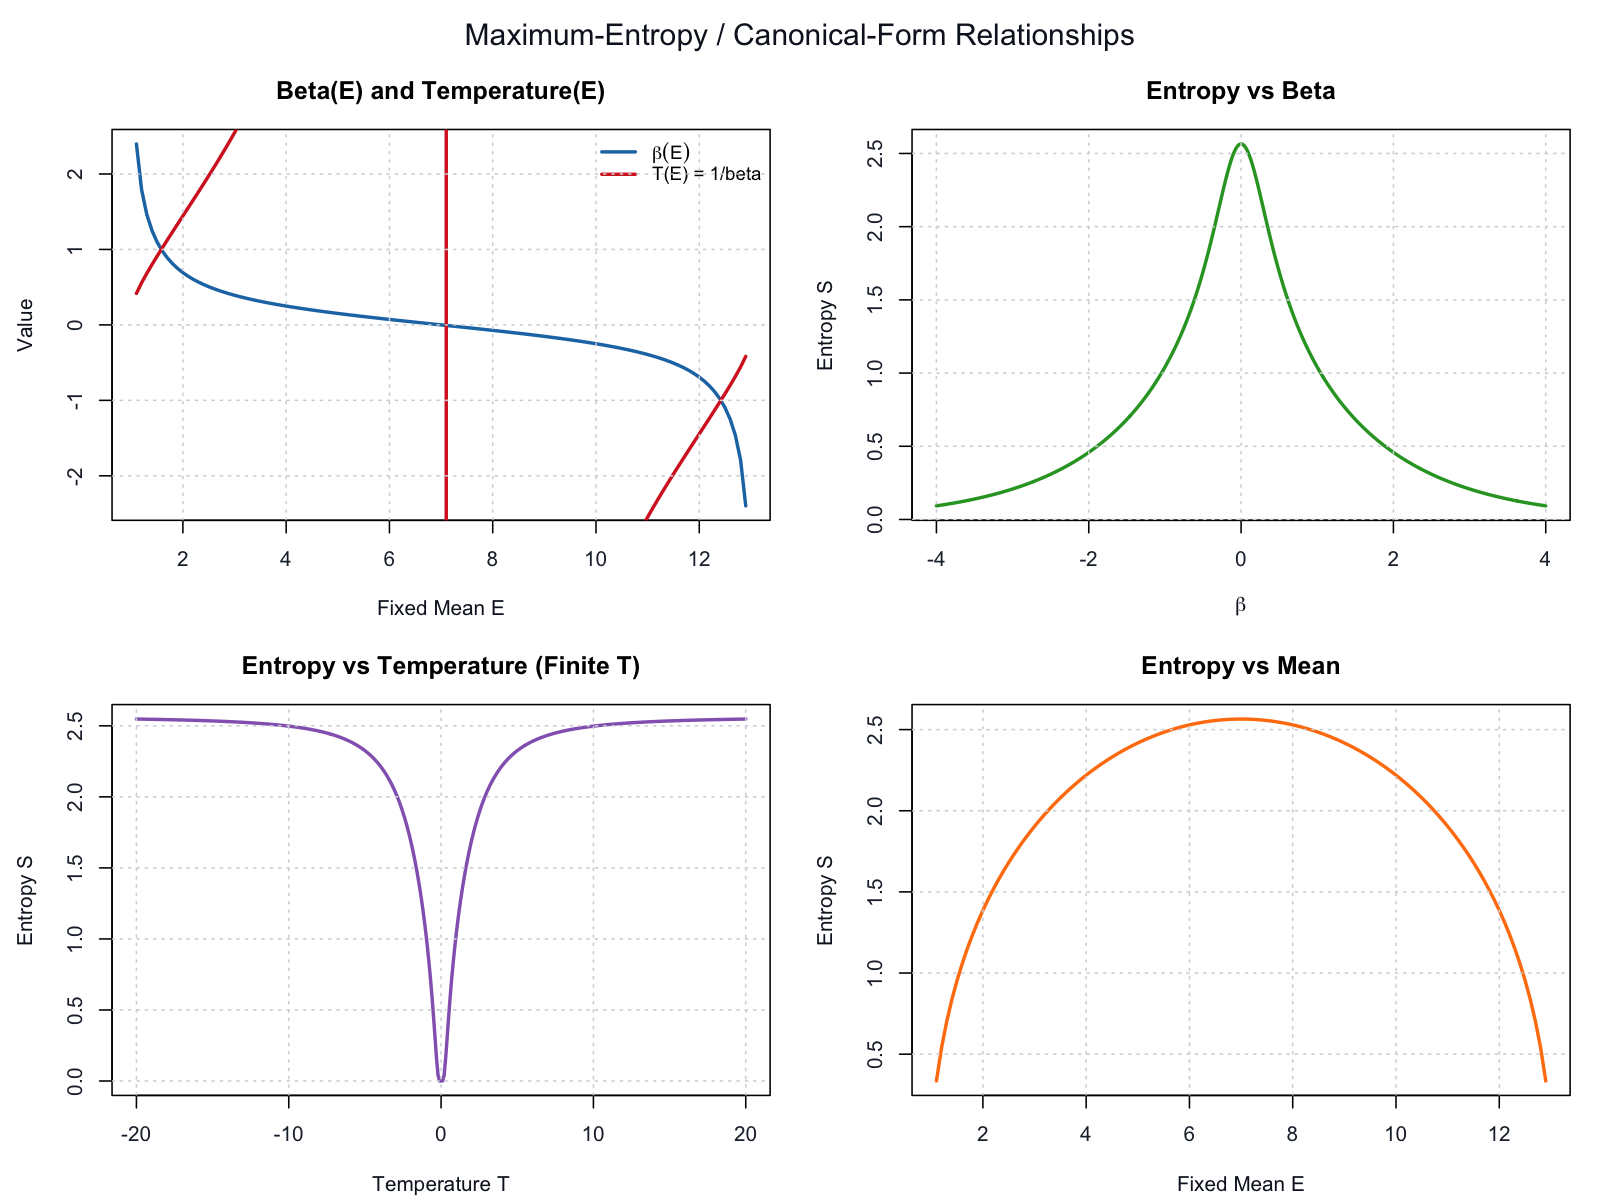
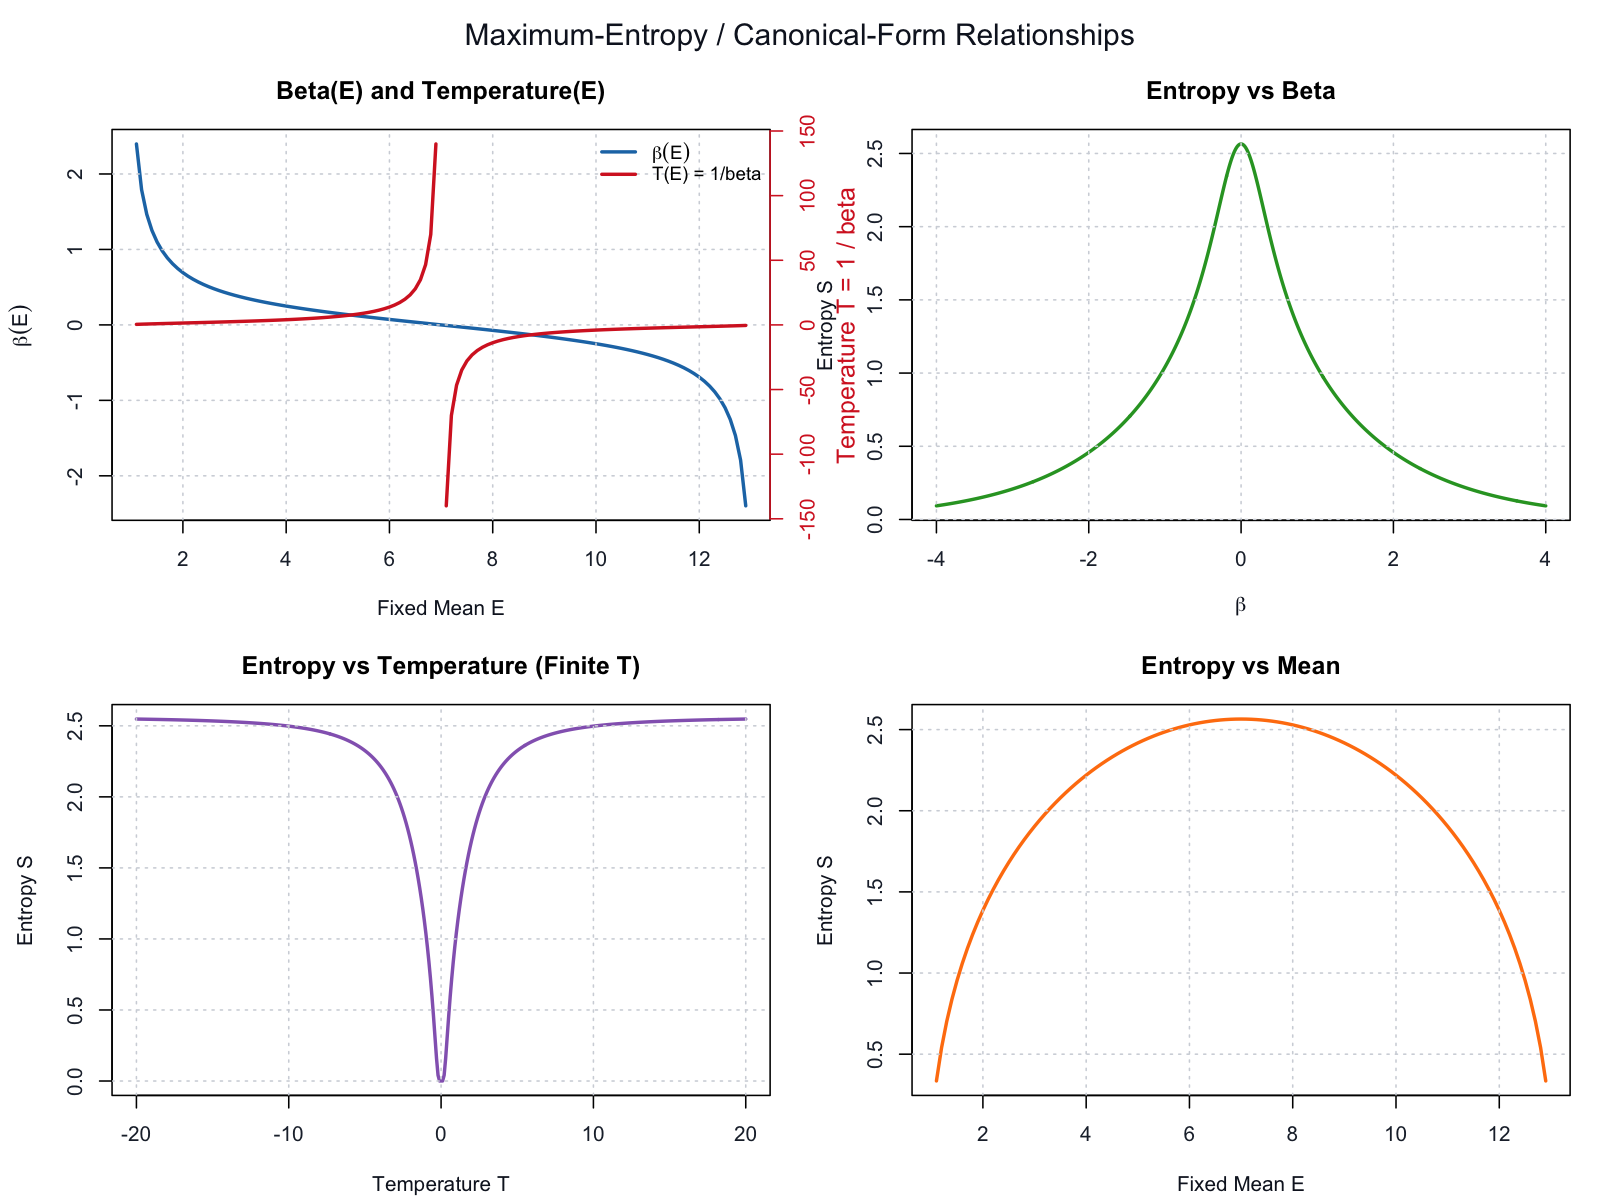
fix up some error

diff --git a/README.md b/README.md
@@ -6,12 +6,14 @@ $$
 p(i) \propto \exp(-\beta i)
 $$
 
+The script uses reduced units with $k_B = 1$, so $T = 1 / \beta$ and the entropy is reported in nats.
+
 ## What this script does
 
 1. Solves for $\beta$ from a target mean $E$ (`beta_from_mean`).
 2. Computes entropy $S = -\sum_i p_i \log p_i$ from $\beta$ (`entropy_from_beta`).
 3. Builds and plots the main relationships:
-   - $\beta(E)$ and $T(E) = \frac{1}{\beta}$
+   - $\beta(E)$ and $T(E) = \frac{1}{\beta}$ on separate axes
    - $S(\beta)$
    - $S(T)$ with finite-temperature filtering
    - $S(E)$
@@ -29,9 +31,11 @@ $$
 
 - Reduced excessive plotting by removing per-call plotting inside entropy calculations.
 - Consolidated output into a compact 2x2 figure panel.
-- Handled `Inf`/invalid cases in temperature-based plotting by filtering non-finite or near-zero $T$.
+- Fixed the root-finding so `beta_from_mean()` works for means arbitrarily close to the boundary states.
+- Rewrote the Boltzmann weights with a numerically stable normalization to avoid overflow/underflow.
+- Handled the pole at $\beta = 0$ by omitting the singular temperature value and plotting $\beta(E)$ and $T(E)$ on separate axes.
 - Added clearer plot titles, grid styling, and a legend.
-- Added titled tabular outputs for readability.
+- Added titled tabular outputs and internal consistency checks for readability and validation.
 
 ## Run
 
